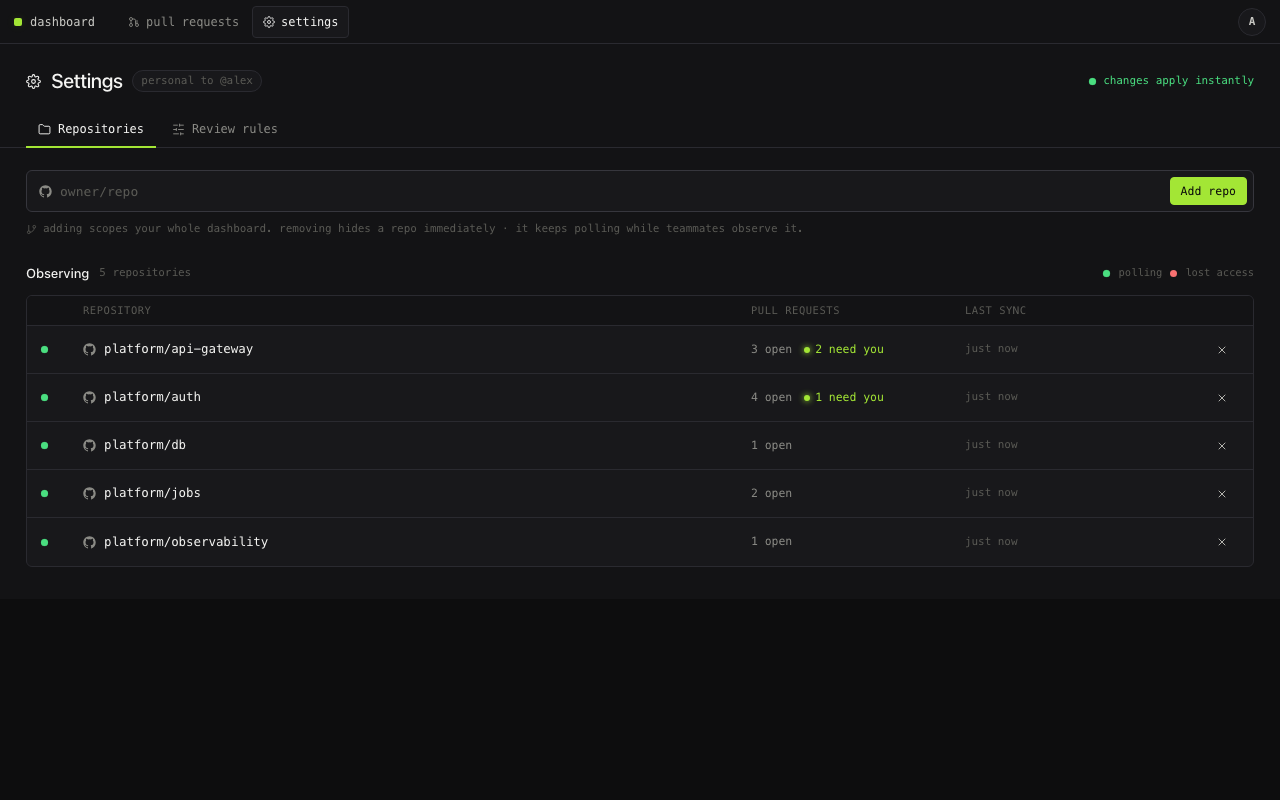
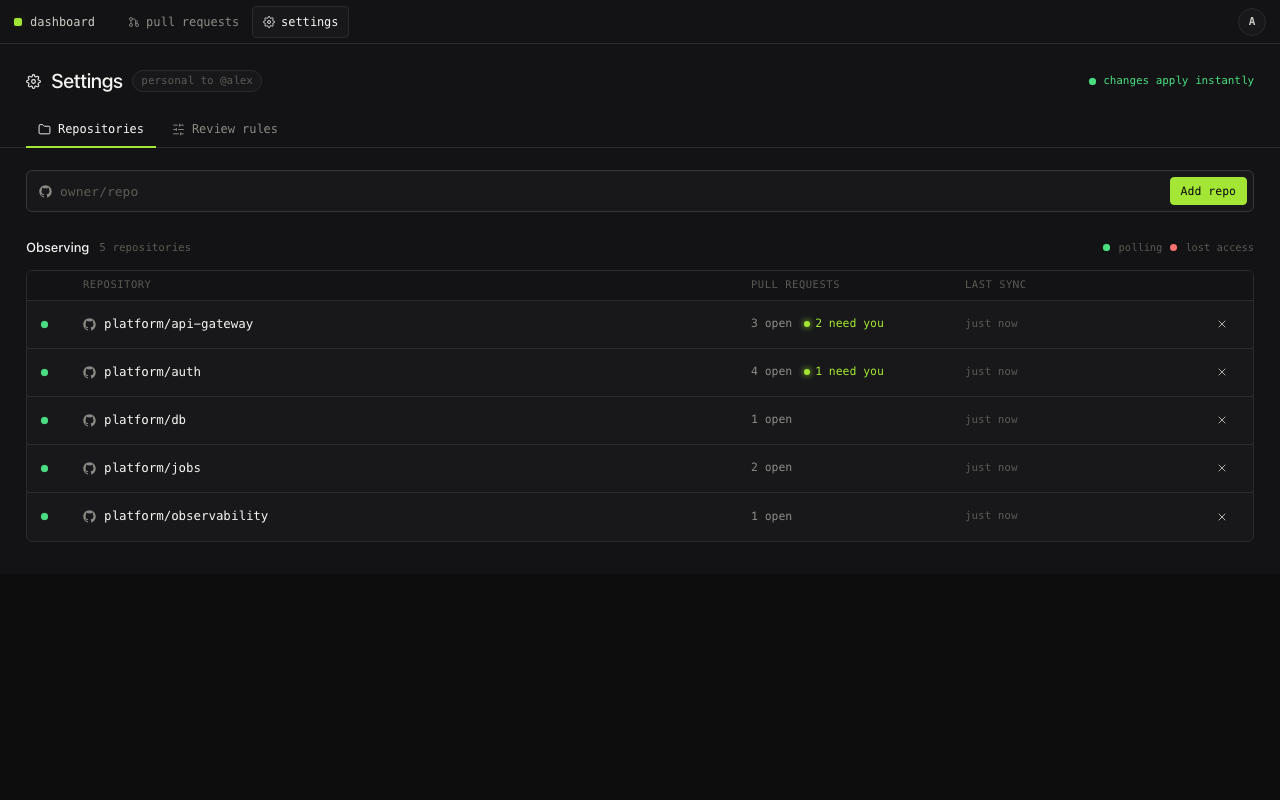
feat(app): drop the add-repo hint blurb on the Repositories screen

diff --git a/app/src/screens/SettingsRepos.jsx b/app/src/screens/SettingsRepos.jsx
@@ -152,10 +152,6 @@ export default function SettingsRepos() {
     <SettingsShell tab="repos" ready={reposData !== undefined}>
       <div className="set-section">
         <AddRepoBar onAdded={refreshAll} />
-        <div className="set-hint mono">
-          <Icon name="git-branch" size={11} />
-          adding scopes your whole dashboard. removing hides a repo immediately · it keeps polling while teammates observe it.
-        </div>
       </div>
 
       <div className="set-section">